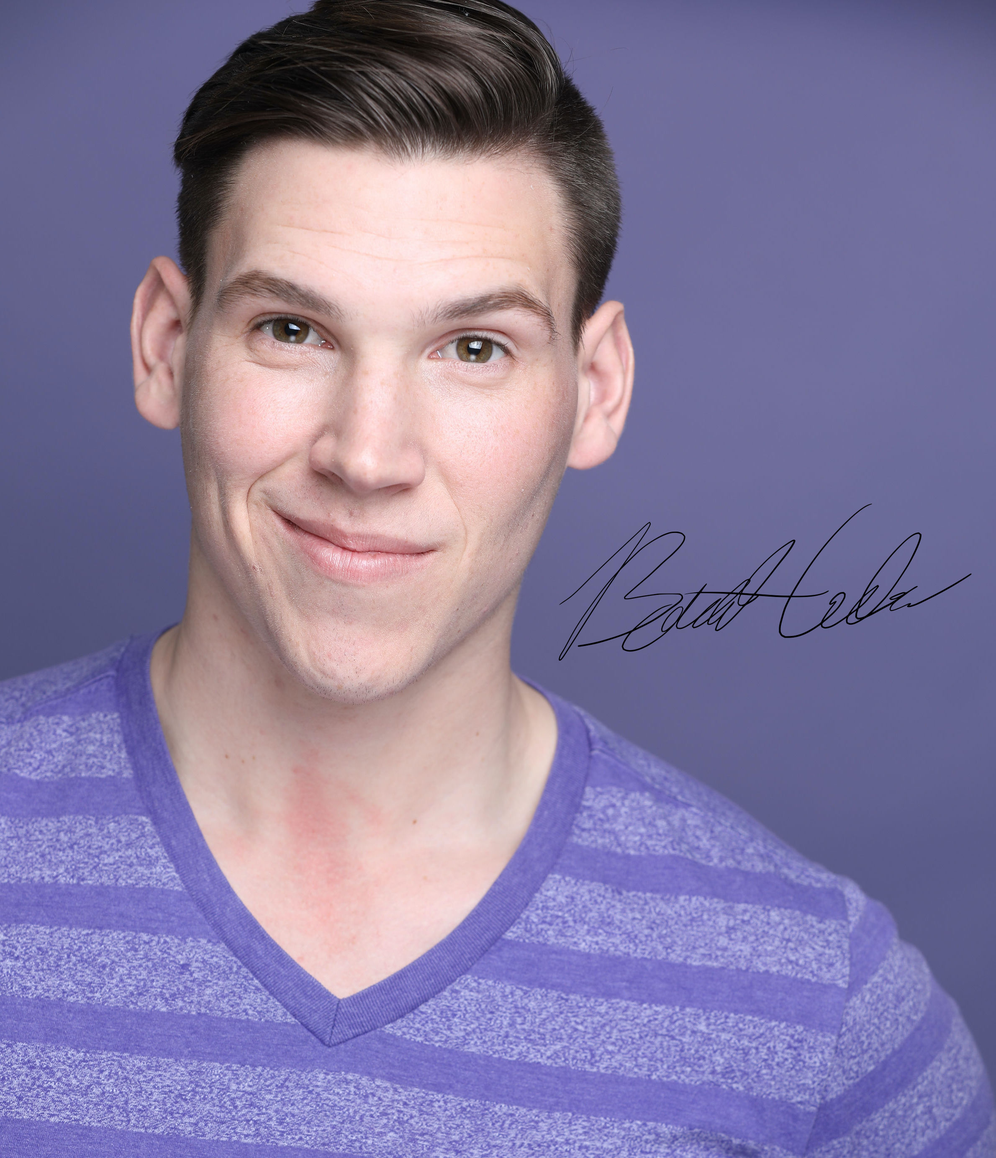
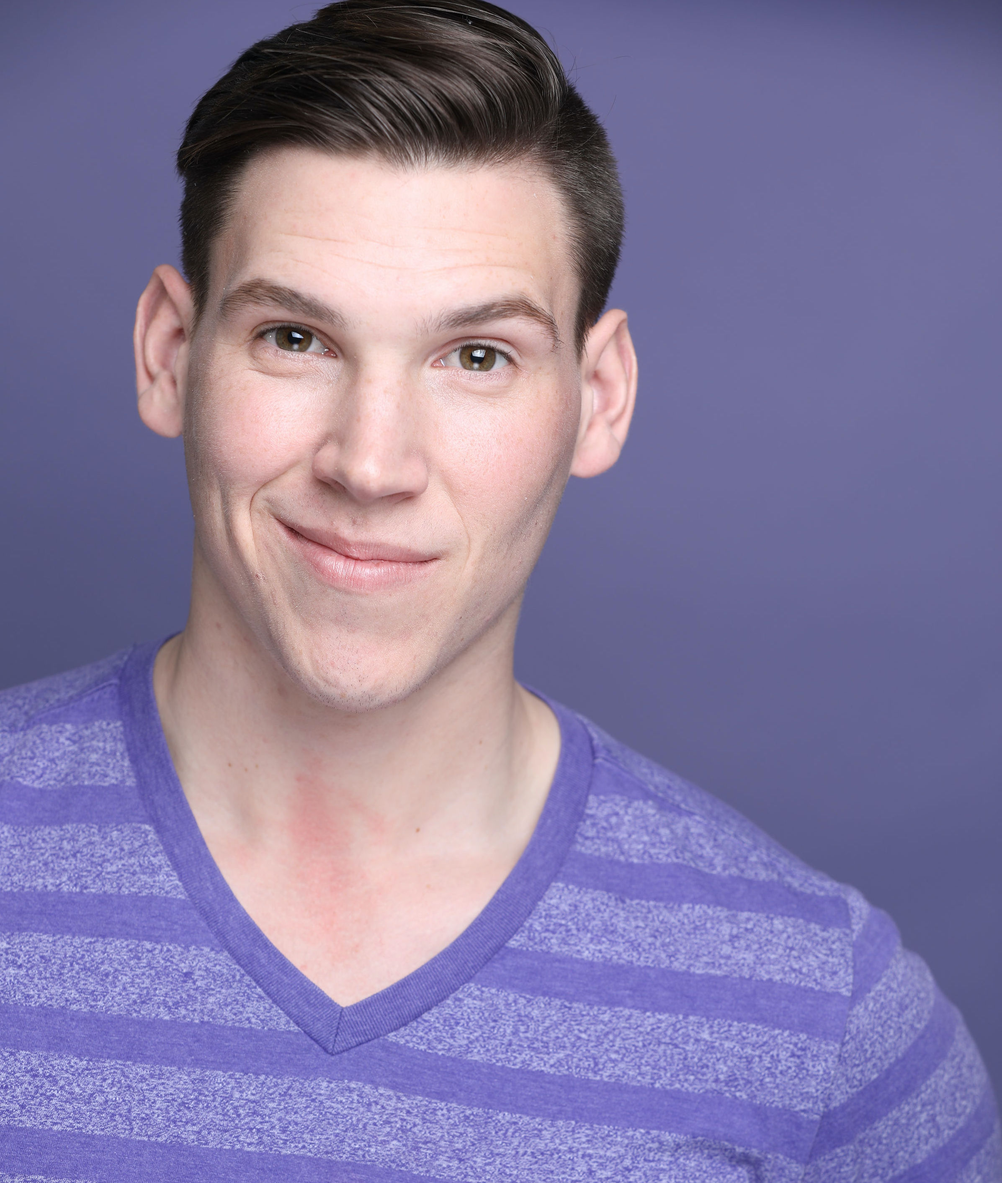
adjusted different design aspects

diff --git a/src/views/HomeView.vue b/src/views/HomeView.vue
@@ -2,13 +2,8 @@
   <div class="home">
     <div class="introPart">
       <h1 class="introName">Hi, my name is Barrett Cahalen!</h1>
-      <img src="../images/businessPhoto.jpg" class="headshot1">
-      <p class="intro"> I want to start by thanking you for visiting my site and I hope you enjoy exploring it as much as I enjoyed creating it. 
-        <br>And if you truly enjoy all that you see, you can download my resume by clicking the "Resume" button in the top right corner. 
-        <br>I think that's about all that I've got to say, so without further ado, I'd like to introduce myself a little more...
-      </p>
-    </div>
-    <div class="intoTech">
+      <img src="../images/businessPhoto2.jpg" class="headshot1">
+      <div class="intoTech">
       <p class="introPt2">
         Originally from California, I grew up being apart of the entertainment industry as a dancer, a passion that eventually led me to earn a Bachelor's degree in Dance Performance from Oklahoma City University. 
         After graduating, I joined Celebrity Cruise Line, where I eventually advanced to the role of dance captain/team lead, allowing me to hone my leadership, communication, and organizational skills in a fast-paced, dynamic environment.
@@ -19,6 +14,10 @@
         This newfound passion motivated me to attend Tech Elevator's intensive 14-week full-stack development program. 
         Here I learned quintessential programming skills as Java, SQL, HTML, CSS, JS, and much more. 
         After finishing the program I wanted to further expand my skill set and continued learning independently which is when I earned my AWS Cloud Practitioner certification, solidifying my commitment to building a career in tech.
+      </p>
+    </div>
+    <p class="intro"> I want to thank you for visiting my site and I hope you enjoy exploring it as much as I enjoyed creating it. 
+        <br>If you truly enjoy all that you see, you can download my resume by clicking the "Resume" button in the top right corner. 
       </p>
     </div>
     <h2 class="certTitle">Here You Can See All My Certifications From Google, Tech Elevator, and AWS</h2>
@@ -103,7 +102,7 @@ import IT from "../../public/Coursera LHS5B98WGRQG.pdf";
 }
 
 .introName{
-  margin: 0;
+  margin: 0 0 10px 0;
   padding: 20px 0 0 0;
   color: black;
   font-family: "Lora", serif;

diff --git a/src/views/ContactView.vue b/src/views/ContactView.vue
@@ -8,7 +8,7 @@
             Feel free to reach out—I’d love to connect and explore how we can work together and what we might be able to build together!
         </p>
             <div class="formBody">
-                <img src="../images/businessPhoto2.jpg" class="headshot2">
+                <img src="../images/businessPhoto.jpg" class="headshot2">
             <form class="form">
                 <div class="fullName">
                 <label for="fullName">Full Name: </label>

diff --git a/src/App.vue b/src/App.vue
@@ -13,8 +13,8 @@
           <router-link to="/">Home</router-link>
           <!-- <router-link to="/about">About</router-link> -->
           <router-link to="/projects">Projects</router-link>
-          <router-link to="/contactme">Contact Me</router-link>
           <a role="button" href="../dist/Barrett Cahalen Resume.pdf" download>Resume</a>
+          <router-link to="/contactme">Contact Me</router-link>
         </nav>
       </div>
     </header>
